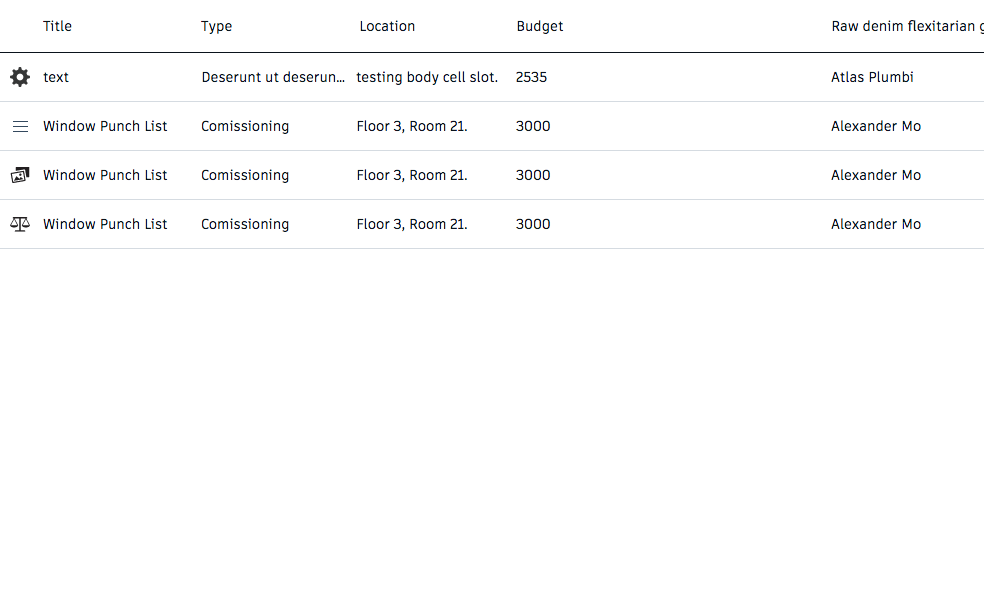
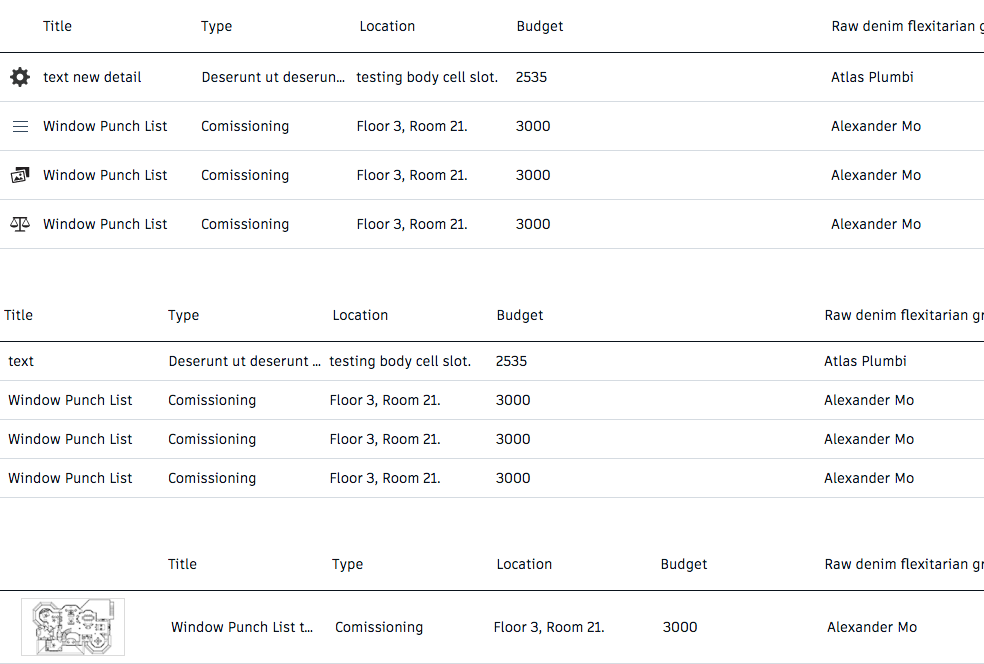
updated snapshots

diff --git a/src/implementations/vanilla/src/components/table/tests/gemini-table.html b/src/implementations/vanilla/src/components/table/tests/gemini-table.html
@@ -72,12 +72,6 @@
     BudgetHeadCell.setWidth("2fr");
 
 
-    // var AssigneeHeadCell = new TableHead.partials.TextHeadCell();
-    // TableHead.addCell(AssigneeHeadCell);
-    // AssigneeHeadCell.setText('Assignee');
-    // AssigneeHeadCell.setAlign("left");
-    // AssigneeHeadCell.setWidth("2fr");
-
 
     //Example of adding a slot head cell
 
@@ -382,7 +376,7 @@
     DefaultTable1.addTableHead(TableHead);
 
     var EmptyCell1 = new TableHead.partials.TextHeadCell(
-      { "alignment": "left", "text": "", "width": "1fr" });
+      { "alignment": "left", "text": "", "width": "2fr" });
     TableHead.addCell(EmptyCell1);
 
 
@@ -414,50 +408,10 @@
     TableHead.addCell(SlotHeadCell1);
     SlotHeadCell1.addSlot(SlotEl1)
 
-
-    // var TableRowDefault = new DefaultTable1.partials.TableRow();
-    // DefaultTable1.addTableRow(TableRowDefault);
-
-    // var IconCell = new TableRowDefault.partials.IconCell({
-    //   icon: "gear"
-    // });;
-    // TableRowDefault.addCell(IconCell);
-
-    // var TextCell = new TableRow.partials.TextCell({
-    //   "text": "text", "alignment": "left", "detail": "detail text"  
-    // });
-    // TableRowDefault.addCell(TextCell);
-
-    // var NextCell = new TableRowDefault.partials.TextCell({
-    //   "text": "Deserunt ut deserunt mollit elit aute et.",
-    //   "alignment": "left"
-    // });
-    // TableRowDefault.addCell(NextCell);
-
-    // var SlotCell = new TableRowDefault.partials.SlotCell();
-    // TableRowDefault.addCell(SlotCell);
-
-    // var NewSlotEl = document.createElement('div');
-    // NewSlotEl.innerHTML = `testing body cell slot.`;
-    // SlotCell.addSlot(NewSlotEl);
-
-    // var BudgetTextCellDefault = new TableRowDefault.partials.TextCell({
-    //   "text": "2535", "alignment": "left"
-    // });
-    // TableRowDefault.addCell(BudgetTextCellDefault);
-
-    // var AssigneeTextCellDefault = new TableRowDefault.partials.TextCell({
-    //   "text": "Atlas Plumbi", "alignment": "left"
-    // });
-    // TableRowDefault.addCell(AssigneeTextCellDefault);
-
     //Add Row 2
 
     var TableRowDefault1 = new DefaultTable1.partials.TableRow();
     DefaultTable.addTableRow(TableRowDefault1);
-
-    // var IconCellDefault1 = new TableRowDefault1.partials.IconCell({ "icon": "hamburger" });
-    // TableRowDefault1.addCell(IconCellDefault1);
 
     var TextCellDefault1 = new TableRowDefault1.partials.TextCell({
       "text": 'Window Punch List', "alignment": "left",
@@ -495,7 +449,7 @@
     var SlotCell2 = new TableRowDefault2.partials.SlotCell();
     TableRowDefault2.addCell(SlotCell2);
     var NewSlotEl2 = document.createElement('div');
-    NewSlotEl2.innerHTML = `<img src="./images/table-image.png" style="width: 104px; height: 58px; padding-left: 20px;">`;
+    NewSlotEl2.innerHTML = `<img src="./images/table-image.png" style="width: 104px; height: 58px; margin-left: 20px;">`;
     SlotCell2.addSlot(NewSlotEl2);
 
     var TextCellDefault2 = new TableRowDefault2.partials.TextCell({

diff --git a/src/implementations/vanilla/src/components/table/tests/tests-table.html b/src/implementations/vanilla/src/components/table/tests/tests-table.html
@@ -72,13 +72,6 @@
     BudgetHeadCell.setWidth("2fr");
 
 
-    // var AssigneeHeadCell = new TableHead.partials.TextHeadCell();
-    // TableHead.addCell(AssigneeHeadCell);
-    // AssigneeHeadCell.setText('Assignee');
-    // AssigneeHeadCell.setAlign("left");
-    // AssigneeHeadCell.setWidth("2fr");
-
-
     //Example of adding a slot head cell
 
     var SlotHeadCell = new TableHead.partials.SlotHeadCell();
@@ -414,43 +407,6 @@
       TableHead.addCell(SlotHeadCell1);
       SlotHeadCell1.addSlot(SlotEl1)
 
-
-      // var TableRowDefault = new DefaultTable1.partials.TableRow();
-      // DefaultTable1.addTableRow(TableRowDefault);
-
-      // var IconCell = new TableRowDefault.partials.IconCell({
-      //   icon: "gear"
-      // });;
-      // TableRowDefault.addCell(IconCell);
-
-      // var TextCell = new TableRow.partials.TextCell({
-      //   "text": "text", "alignment": "left", "detail": "detail text"  
-      // });
-      // TableRowDefault.addCell(TextCell);
-
-      // var NextCell = new TableRowDefault.partials.TextCell({
-      //   "text": "Deserunt ut deserunt mollit elit aute et.",
-      //   "alignment": "left"
-      // });
-      // TableRowDefault.addCell(NextCell);
-
-      // var SlotCell = new TableRowDefault.partials.SlotCell();
-      // TableRowDefault.addCell(SlotCell);
-
-      // var NewSlotEl = document.createElement('div');
-      // NewSlotEl.innerHTML = `testing body cell slot.`;
-      // SlotCell.addSlot(NewSlotEl);
-
-      // var BudgetTextCellDefault = new TableRowDefault.partials.TextCell({
-      //   "text": "2535", "alignment": "left"
-      // });
-      // TableRowDefault.addCell(BudgetTextCellDefault);
-
-      // var AssigneeTextCellDefault = new TableRowDefault.partials.TextCell({
-      //   "text": "Atlas Plumbi", "alignment": "left"
-      // });
-      // TableRowDefault.addCell(AssigneeTextCellDefault);
-
       //Add Row 2
 
       var TableRowDefault1 = new DefaultTable1.partials.TableRow();
@@ -495,7 +451,7 @@
        var SlotCell2 = new TableRowDefault2.partials.SlotCell();
       TableRowDefault2.addCell(SlotCell2);
       var NewSlotEl2 = document.createElement('div');
-      NewSlotEl2.innerHTML = `<img src="./images/table-image.png" style="width: 104px; height: 58px; padding-left: 20px;">`;
+      NewSlotEl2.innerHTML = `<img src="./images/table-image.png" style="width: 104px; height: 58px; margin-left: 20px;">`;
       SlotCell2.addSlot(NewSlotEl2);
 
       var TextCellDefault2 = new TableRowDefault2.partials.TextCell({
